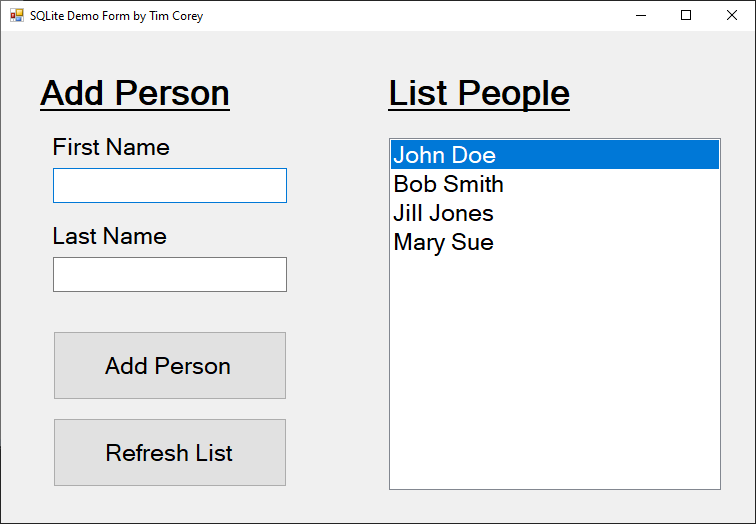
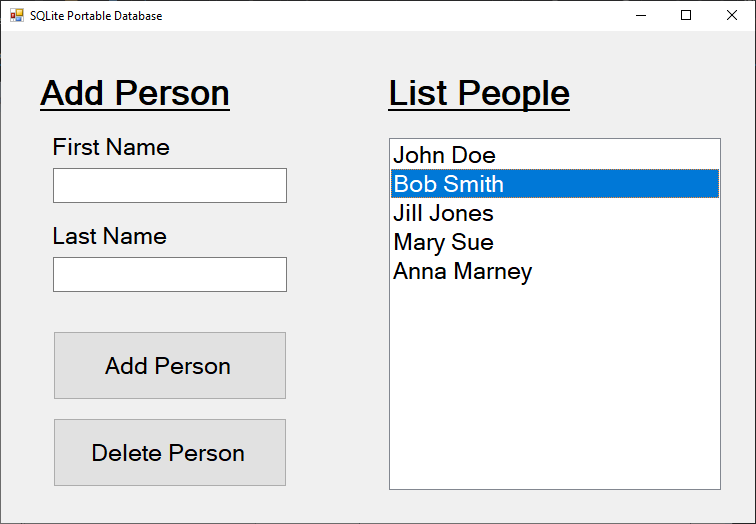
Major updates, Added Delete Person function, added auto refresh

diff --git a/WinFormUI/PeopleForm.cs b/WinFormUI/PeopleForm.cs
@@ -39,7 +39,19 @@ namespace WinFormUI
 
         private void refreshListButton_Click(object sender, EventArgs e)
         {
+
+            PersonModel p = new PersonModel();
+
+            p.FirstName = firstNameText.Text;
+            p.LastName = lastNameText.Text;
+
+            // TODO - do something with this item
+            SqliteDataAccess.DeletePerson(p);
+
+            firstNameText.Text = "";
+            lastNameText.Text = "";
             LoadPeopleList();
+
         }
 
         private void addPersonButton_Click(object sender, EventArgs e)
@@ -54,6 +66,7 @@ namespace WinFormUI
 
             firstNameText.Text = "";
             lastNameText.Text = "";
+            LoadPeopleList();
         }
     }
 }

diff --git a/WinFormUI/PeopleForm.Designer.cs b/WinFormUI/PeopleForm.Designer.cs
@@ -116,7 +116,7 @@
             this.refreshListButton.Name = "refreshListButton";
             this.refreshListButton.Size = new System.Drawing.Size(234, 69);
             this.refreshListButton.TabIndex = 8;
-            this.refreshListButton.Text = "Refresh List";
+            this.refreshListButton.Text = "Delete Person";
             this.refreshListButton.UseVisualStyleBackColor = true;
             this.refreshListButton.Click += new System.EventHandler(this.refreshListButton_Click);
             // 

diff --git a/DemoLibrary/SqliteDataAccess.cs b/DemoLibrary/SqliteDataAccess.cs
@@ -28,6 +28,14 @@ namespace DemoLibrary
             }
 
         }
+        public static void DeletePerson(PersonModel person)
+        {
+            using (IDbConnection cnn = new SQLiteConnection(LoadConnectionString()))
+            {
+                cnn.Execute("delete from Person where FirstName=@FirstName and LastName=@LastName", person);
+            }
+
+        }
 
         private static string LoadConnectionString(string id = "Default")
         {
